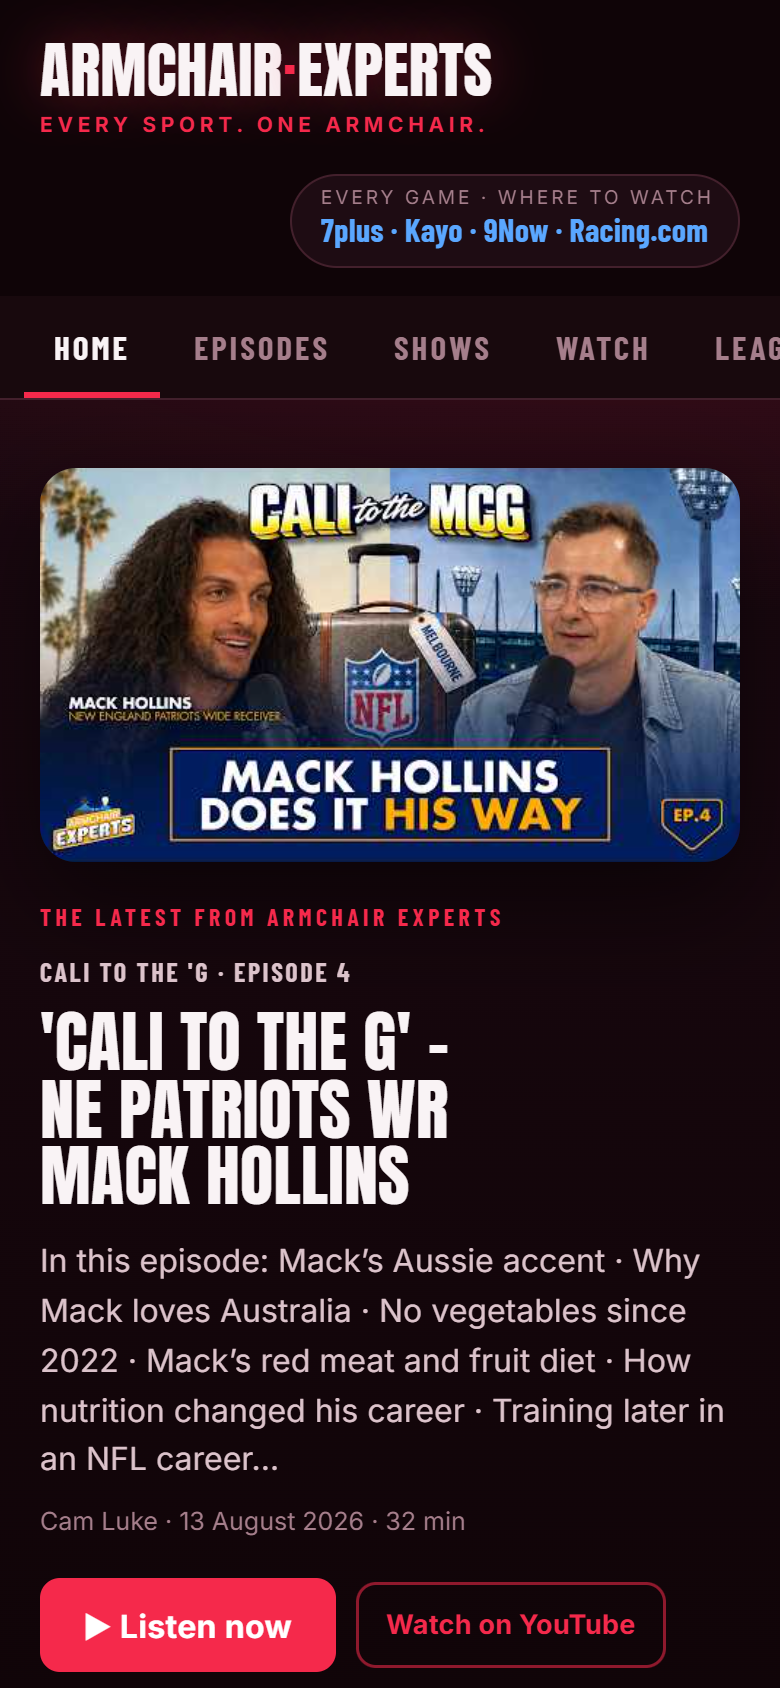
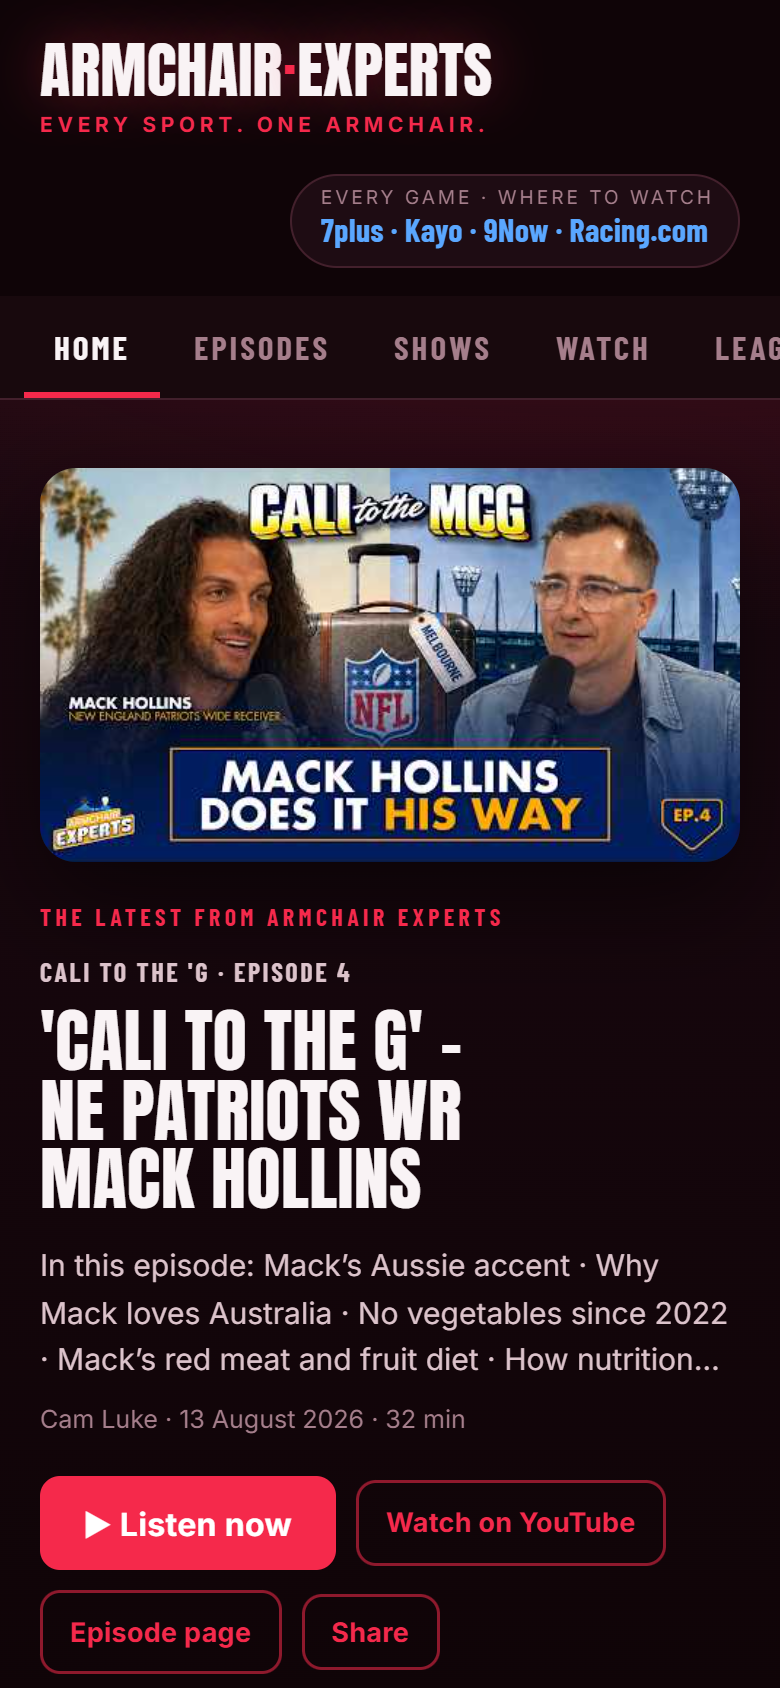
README: Phase 1 — podcast-first home base, episode/show pages, analytics

Changed region(s): [[0.0308, 0.5853, 0.9231, 1.0]]

diff --git a/README.md b/README.md
@@ -6,11 +6,18 @@ The platform behind **Armchair Experts** (Cam Luke) — the voice of sports fans
 
 Built on the **ListTrac engine** (the AFL list-management platform's data → product pipeline), generalised so a new league is a config entry rather than a rebuild.
 
+## The product, in one line
+
+A living digital home for Armchair Experts — the podcast is the emotional centre, the sports utility is the reason people come back between episodes. Every product decision serves: **discover the show → understand the latest episode → listen / watch / follow → find something worth watching this week → return.**
+
 ## What's live
 
 | Surface | What it does |
 |---|---|
-| **Landing** | The network front door — logo, tagline, channel menu, socials, and the cross-code **Coming up** calendar (every major event, any code, from `data/events.json`) |
+| **Home** (`/`) | Podcast-first: the latest episode as the hero (Listen now in-page, Watch on YouTube, Episode page, Share), **Never miss an episode** follow strip (real links only), **This week in sport** (two Games of the Week + next calendar moments, plain-English *Why watch?*, one primary provider + also-ons, timestamped), latest episodes, The Experts' take, Coming up, Go deeper chips to every code |
+| **Episodes** (`/episodes`, `/episode/{slug}`) | Every episode from the show's own podcast feed (Omny/iHeart — audio, duration, number, art, chapter topics) matched to YouTube uploads. Episode pages: hero, Listen/Watch/Share, embed, About, In this episode, related hub/show/next/prev, follow strip. Clean URLs served with per-page title/OG/canonical + PodcastEpisode JSON-LD; `sitemap.xml`, `robots.txt` |
+| **Shows** (`/show/{slug}`) | Durable show pages: status (Live / Launching soon), hosts, cadence, latest + all episodes, follow strip, related hub |
+| **Landing** (`#/landing`) | The original network front door — channel menu and the cross-code **Coming up** calendar (`data/events.json`) |
 | **Leagues** | The code picker in three columns of five — **Home** (AFL, NRL, Cricket, NBL, Racing), **Abroad** (NFL, NBA, Premier League, MLB, College Football), **Global** (Tennis, F1, Golf, UFC, LA 2028). Newsletter signup + Ask the Experts mailbag |
 | **League hubs** (`#/nfl`, `#/afl`, `#/nbl`) | Rotating image-led top story, headline ticker, live fixtures with watchability ranking (live-score polling while games run), aggregated news + numbered top stories, clubs and players. NFL adds the MCG versus-strip countdown, the 10-day advent rail and the Experts' calls. AFL adds the full 1–18 ladder with the 2026 wildcard lines, the finals bracket (projected from the ladder until it locks), season leaders, round-by-round form guides and official-stats player pages. NBL adds season leaders, rosters and career pages from the league's own feed |
 | **NRL hub** (`#/nrl`) | Round-by-round draw, live ladder with the top-eight line, all 17 clubs, aggregated news — pure ESPN shell (see the quirks in `LEAGUES_CFG`) |
@@ -37,6 +44,10 @@ Built on the **ListTrac engine** (the AFL list-management platform's data → pr
 **Watchability** ranks each fixture on line closeness, expected points, team quality and timeslot. The NFL has odds so it gets win-probability meters; the Australian codes don't, so the model degrades to form and slot. Racing ranks races on black-type status, metro venue, Saturday and field size.
 
 **Data sources.** ESPN's public JSON for NFL/AFL/NBL fixtures, news and standings. Beyond ESPN: the AFL's official Champion Data stats API (`api.afl.com.au`, token handshake) for AFL leaders, lists, player pages, form guides and the finals bracket; the NBL's Rosetta API (`prod.rosetta.nbl.com.au`, Origin-gated) for NBL leaders, rosters and careers; racing.com's GraphQL layer (Champion Data racing behind `graphql.rmdprod.racing.com`, editorial and premierships behind `graphql.api.racing.com`, public client keys) for everything racing — see `api/racing.py`.
+
+**The podcast layer.** `api/podcast.py` reads the show's real RSS (the feed Apple Podcasts lists) and the YouTube channel feed, matches audio to video by title/date, derives the show from the title, and exposes `/api/episodes`, `/api/episodes/{slug}`, `/api/podcast/shows`. Follow links live in `PLATFORMS` there — add Spotify and socials when confirmed; never fake a link.
+
+**Analytics.** `track(event, label)` in `web/app.js` beacons every audience action (view_home, view_episode, click_listen, click_watch_video, click_follow_platform, share_episode, click_event_watch_provider, click_episode, …) to `/api/track`; `/api/track/summary` shows prototype counts. Enable Vercel Web Analytics (or plug Plausible/GA4) to persist — the calls are already in place. **The one metric:** what share of visitors take an owned-audience action.
 
 **Where to watch.** No exclusive streaming partner. Every watch button points at the real Australian broadcaster for that code (`WATCH` in `web/app.js`): 7plus / Kayo / Game Pass for the NFL, 7plus / Kayo for the AFL, 9Now / Kayo for the NBL, Racing.com / 7plus / Sky Racing for racing.
 
